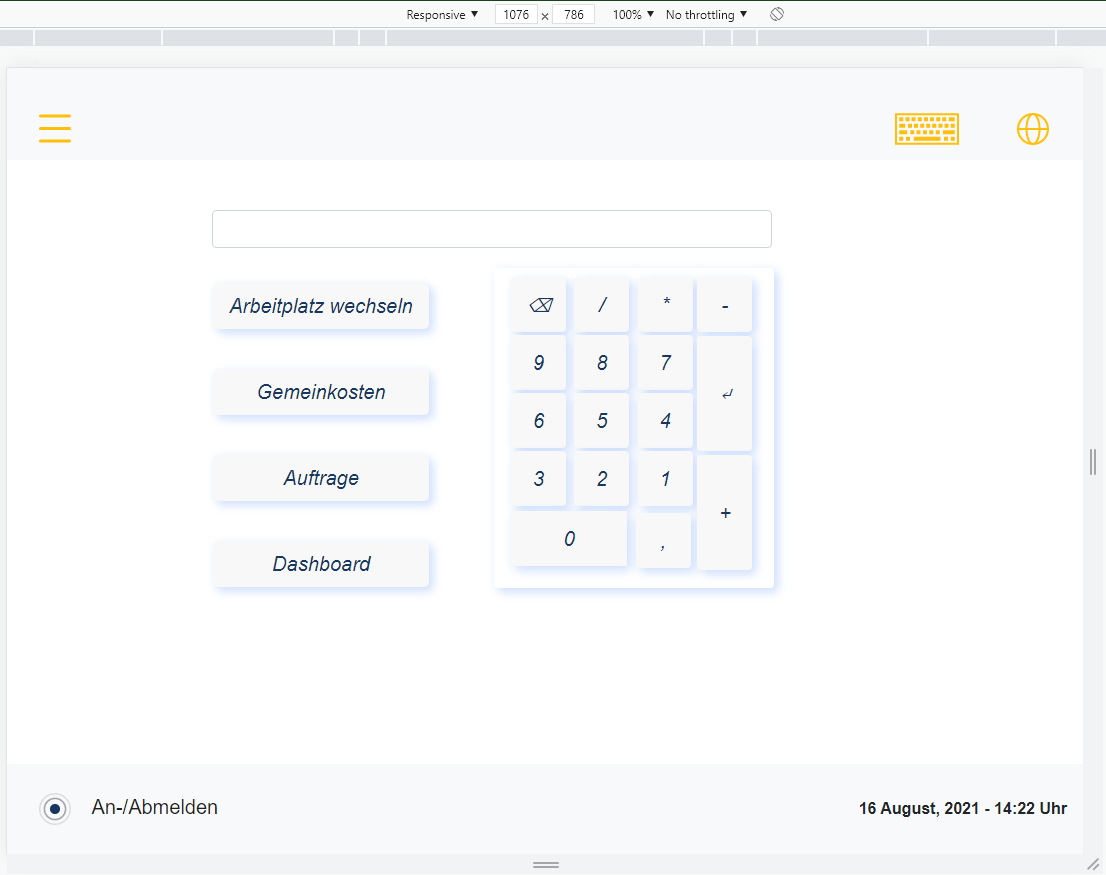
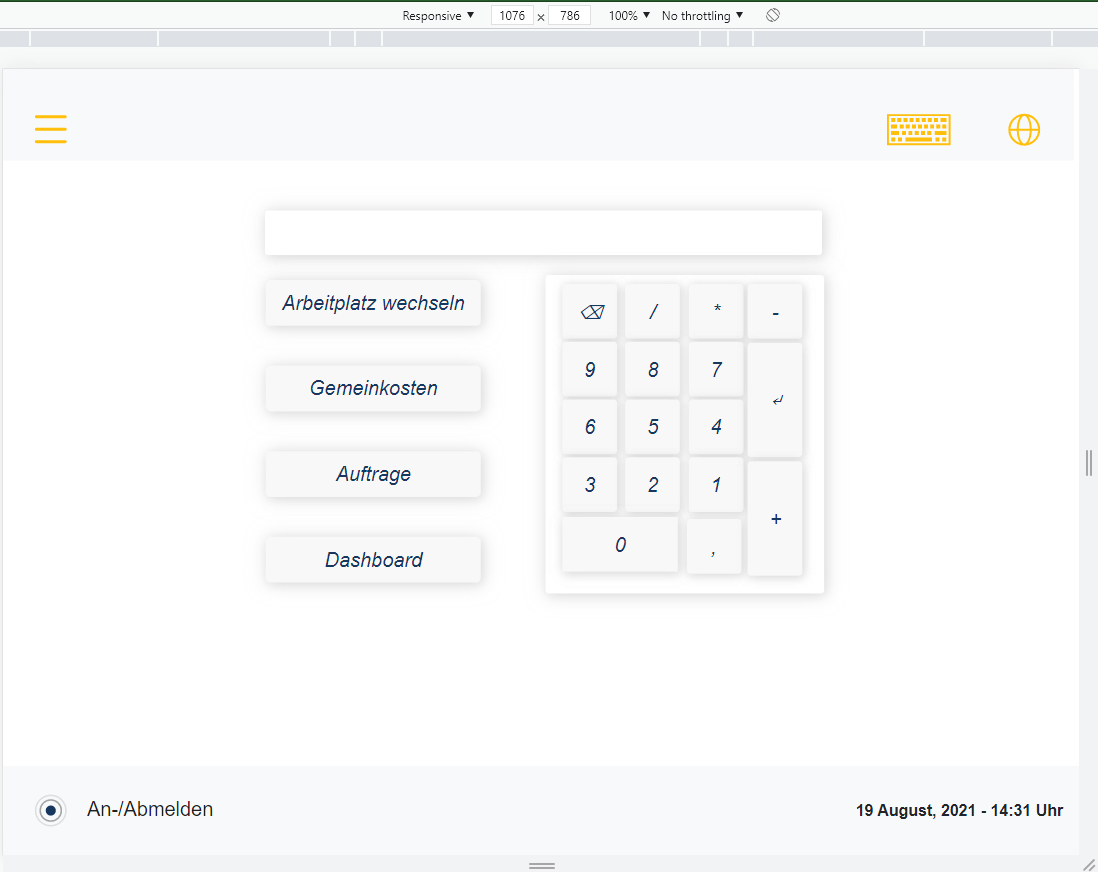
style(home) front end optimization #2

diff --git a/static/site.css b/static/site.css
@@ -1,18 +1,33 @@
-.btn-primary, .btn-primary:hover, .btn-primary:active, .btn-primary:visited {
+
+body, html {
+    margin: 0;
+    padding: 0;
+    height: 100%;
+    width: 100%;
+    font-family: 'SF Pro', sans-serif;
+  }
+
+.btn-primary, .btn-primary:hover  {
     background-color:#F8F8F8 !important;
     border: none;
-    box-shadow: 5px 5px 10px 0 rgba(66, 133, 244,.16),2px 2px 10px 0 rgba(66, 133, 244,.12);
+    box-shadow: 1px 1px 20px 0 rgba(205, 205, 205,0.5),2px 2px 10px 0 rgba(205, 205, 205,.5);
     margin: 15px 5px 15px 5px;
     color: #17375E;
+    outline: none;
     font-style: italic;
     font-size: 20px;
     font-family: 'SF Pro', !important;
 
 }
+.btn-primary:active:focus, .btn-primary:visited, .btn-primary:focus{
+    background-color: #ffbf0a !important;
+    outline: none;
+    box-shadow: 1px 1px 20px 0 rgba(205, 205, 205,0.5),2px 2px 10px 0 rgba(205, 205, 205,.5);
+}
 .btn-secondary, .btn-secondary:hover{
     background-color:#F8F8F8 !important;
     border: none;
-    box-shadow: 5px 5px 10px 0 rgba(66, 133, 244,.16),2px 2px 10px 0 rgba(66, 133, 244,.12);
+    box-shadow: 1px 1px 10px 0 rgba(205, 205, 205,0.5),2px 2px 10px 0 rgba(205, 205, 205,.5);
     margin: 1px 2px 2px 2px;
     color: #17375E;
     font-style: italic;
@@ -24,7 +39,7 @@
 .btn-light{
     background-color:#F8F8F8 !important;
     border: none;
-    box-shadow: 5px 5px 10px 0 rgba(66, 133, 244,.16),2px 2px 10px 0 rgba(66, 133, 244,.12);
+    box-shadow: 1px 1px 10px 0 rgba(205, 205, 205,0.5),2px 2px 10px 0 rgba(205, 205, 205,.5);
     margin: 2px 2px 2px 2px;
     color: #17375E;
     font-style: italic;
@@ -36,7 +51,7 @@
 .btnZ{
     background-color:#F8F8F8 !important;
     border: none;
-    box-shadow: 5px 5px 10px 0 rgba(66, 133, 244,.16),2px 2px 10px 0 rgba(66, 133, 244,.12);
+    box-shadow: 1px 1px 10px 0 rgba(205, 205, 205,0.5),2px 2px 10px 0 rgba(205, 205, 205,.5);
     margin: 3px 2px 2px 2px;
     color: #17375E;
     font-style: italic;
@@ -53,13 +68,16 @@
     justify-content: center;
     margin: 50px 5px 5px 5px;
     flex-flow:column wrap;
+    max-width: 1076px;
     
 }
 .flex-column{
     float: left;
     margin-right: 30px;
-    margin-top: 20px;
+    margin-top: 10px;
     row-gap: 10px;
+    justify-content: space-evenly;
+    justify-items:flex-start;
 }
 .card{
     float: right;
@@ -70,13 +88,21 @@
     flex-wrap: wrap;                     
     justify-items: right !important;
     border: none;
-    box-shadow: 5px 5px 10px 0 rgba(66, 133, 244,.16),2px 2px 10px 0 rgba(66, 133, 244,.12);
+    box-shadow: 1px 1px 20px 0 rgba(205, 205, 205,0.5),2px 2px 10px 0 rgba(205, 205, 205,.5);
 }
-.textInput{
+
+.form-control,.form-control:focus, input, select{
     width: 560px;
+    height: 45px;
+    box-sizing: inherit;
     display: flex;
     flex-direction: column !important;
     align-self: center;
+    box-shadow: 1px 1px 20px 0 rgba(205, 205, 205,0.5),2px 2px 10px 0 rgba(205, 205, 205,.5);
+    color: darkblue !important;
+    border: none;
+    outline: none;
+    
 }
 
 .navbar fixed-bottom navbar-light bg-light{
@@ -97,13 +123,6 @@
     font-family: 'SF Pro', !important;
 }
 
-body, html {
-    margin: 0;
-    padding: 0;
-    height: 100%;
-    width: 100%;
-    font-family: 'SF Pro', sans-serif;
-  }
 
   /* The side navigation menu */
 .sidenav {
@@ -148,3 +167,21 @@ body, html {
     .sidenav {padding-top: 15px;}
     .sidenav a {font-size: 18px;}
   }
+   /* The Arbeitplatz Buttons */
+
+.btn-ap  {
+    background-color:#F8F8F8 !important;
+    border: none;
+    box-shadow: 1px 1px 20px 0 rgba(205, 205, 205,0.5),2px 2px 10px 0 rgba(205, 205, 205,.5);
+    margin: 15px 5px 15px 5px;
+    color: #17375E;
+    font-style: italic;
+    font-size: 15px;
+    font-family: 'SF Pro', !important;
+    height: 60px;
+    width: 230px;
+
+}
+.p-2{
+    margin-left: 15px;
+}

diff --git a/templates/arbeitsplatz.html b/templates/arbeitsplatz.html
@@ -1,4 +1,21 @@
 {% extends "base.html" %}
 {% block title %} Arbeitplatz {% endblock %}
-{% block content%}     
+{% block content%}  
+<div class="d-flex flex-row">
+    <h2>Arbeitplatz</h2> 
+    <button  type="button" class="p-2 bd-highlight" data-toggle="button" aria-pressed="false">Alle</button>
+    <button  type="button" class="p-2 bd-highlight" data-toggle="button" aria-pressed="false">Ausgewählte </button>
+  </div> 
+
+  
+<div class="d-flex align-content-center flex-wrap justify-content-evenly">
+    <!-- Dynamic population of Buttons -->
+    {% for items in range(0,buttonText|length) %}
+    <button type="button" onclick="" class="btn btn-primary btn-ap">{{buttonText[items]}}</button>
+    {% endfor %}
+</div>
+<div class="d-flex justify-content-between">
+    <button type="button" onclick="" class="btn btn-primary btn-lg">Abbrechen</button>
+    <button type="button" onclick="" class="btn btn-primary btn-lg">Bestätigen</button>
+</div>
 {% endblock %}

diff --git a/templates/home.html b/templates/home.html
@@ -32,6 +32,7 @@
             <button type="button" onclick="window.location.href='{{buttonValues[1][items]}}'" class="btn btn-primary btn-lg">{{buttonValues[0][items]}}</button>
             {% endfor %}
             
+            
         </div>
         <div class="card">
             <!-- Keypad -->

diff --git a/app.py b/app.py
@@ -8,7 +8,12 @@ app.debug = True
 
 
 homeButtons = [["Arbeitplatz wechseln","Gemeinkosten","Auftrage","Dashboard"],["arbeitsplatz","#","#","#"]]
+
 sidebarItems =[["Berichte drucken","Arbeitsplatz Buchung","Gruppen Buchung","FA erfasssen","Gk ändern"],["#","#","#","#","#","#"]]
+
+arbeitsplatzItems =["Gruppe 20","Azubi Abt.", "Prämien", "Formwangen / Hauben","Formwangen Lack / Furnier","Eckpassstücke","Blenderzuschnitt",
+"Muldenprofit","Blockstollen / Jalousieschränke","Passsttüke UT/OT/HS","Plaster / Schiebetüren","Regale","Blindteile / Eckpassblenden","Sonderbau",
+"Holzschubkästen","Kantenmachine"]
 
 
 @app.route("/")
@@ -26,4 +31,5 @@ def arbeitsplatz():
     
     return render_template(
         "arbeitsplatz.html",
-        date=datetime.now())
+        date=datetime.now(),
+        buttonText=arbeitsplatzItems)
